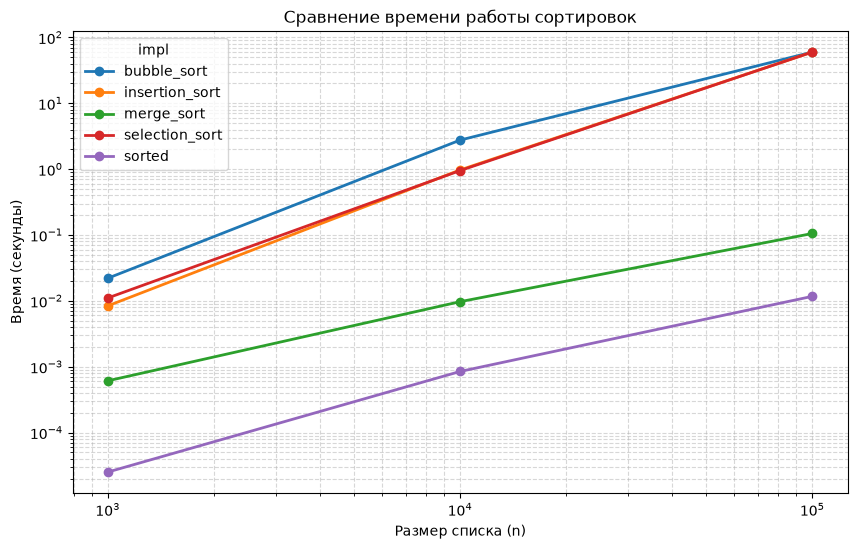
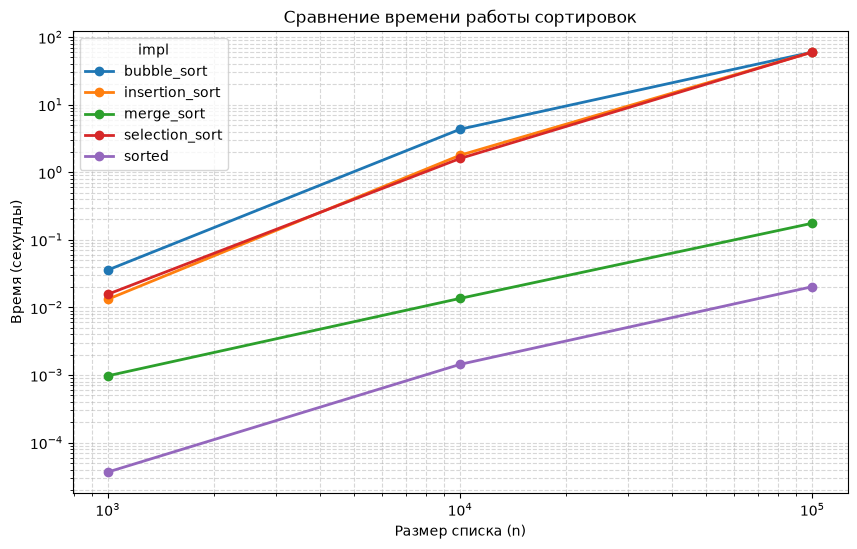
Сделал пикми

Changed region(s): [[0.0303, 0.0929, 1.0, 0.898], [0.0303, 0.5264, 0.091, 0.5883], [0.0303, 0.1858, 0.091, 0.2168]]

diff --git a/src/lab07/README.md b/src/lab07/README.md
@@ -1,0 +1,150 @@
+# Отчет по лабораторной работе №7
+
+## Алгоритмы поиска
+
+- `linear_search(nums, x)` — линейный поиск первого вхождения элемента;
+- `binary_search(sorted_nums, x)` — бинарный поиск в отсортированном списке;
+- `two_sum_brute(nums, target)` — поиск пары вложенными циклами;
+- `two_sum_fast(nums, target)` — поиск пары за один проход со словарём.
+
+Сложность:
+
+| Алгоритм            | Сложность |
+| --------------------------- | -----------------: |
+| Линейный поиск |           `O(n)` |
+| Бинарный поиск |       `O(log n)` |
+| `two_sum_brute`           |         `O(n²)` |
+| `two_sum_fast`            |           `O(n)` |
+
+Бинарный поиск работает только с предварительно отсортированным списком.
+
+## Алгоритмы сортировки
+
+- `bubble_sort(nums)` — сортировка пузырьком с ранним выходом;
+- `insertion_sort(nums)` — сортировка вставками;
+- `selection_sort(nums)` — сортировка выбором;
+- `merge_sort(nums)` — нерекурсивная сортировка слиянием;
+- `counting_sort(nums, lo, hi)` — сортировка подсчётом для заданного диапазона.
+
+| Алгоритм                            | Сложность |
+| ------------------------------------------- | -----------------: |
+| Пузырьковая сортировка |         `O(n²)` |
+| Сортировка вставками     |         `O(n²)` |
+| Сортировка выбором         |         `O(n²)` |
+| Сортировка слиянием       |     `O(n log n)` |
+| Сортировка подсчётом     |       `O(n + k)` |
+
+## Проверка корректности
+
+Запуск проверки из корня репозитория:
+
+```powershell
+python -m src.lab07.check
+```
+
+Проверены:
+
+- три квадратичные сортировки и две дополнительные сортировки — по 100 случайных
+  списков;
+- линейный и бинарный поиск — 100 случайных наборов;
+- оба решения задачи `Two Sum` — 100 случайных наборов;
+- отсутствие изменения входного списка.
+
+Результат проверки:
+
+```text
+bubble_sort OK: 100
+insertion_sort OK: 100
+selection_sort OK: 100
+merge_sort OK: 100
+counting_sort OK: 100
+OK: 100 проверок
+OK: 100 проверок
+ВСЕ ПРОВЕРКИ ПРОЙДЕНЫ!
+```
+
+## Бенчмарк
+
+Результаты выводятся в консоль и сохраняются в
+
+[data/lab07/bench.csv](../../data/lab07/bench.csv).
+
+### Сортировки
+
+| Размер `n` |  `sorted` | `merge_sort` | `bubble_sort` | `insertion_sort` | `selection_sort` |
+| -----------------: | ----------: | -------------: | --------------: | -----------------: | -----------------: |
+|              1 000 | 0.000037 с |    0.000973 с |     0.035787 с |        0.013219 с |        0.015668 с |
+|             10 000 | 0.001438 с |    0.013607 с |     4.329996 с |        1.786593 с |        1.599112 с |
+|            100 000 | 0.020287 с |    0.176124 с |         > 60 с |            > 60 с |            > 60 с |
+
+Квадратичные сортировки для `n = 100000` ограничены отметкой `> 60.0`,
+поскольку их выполнение занимает слишком много времени.
+
+### Сортировка подсчётом
+
+Для миллиона чисел из диапазона `[0, 100]` получены следующие результаты:
+
+| Размер `n` | Реализация |  Время |
+| -----------------: | -------------------- | ----------: |
+|          1 000 000 | `sorted`           | 0.124700 с |
+|          1 000 000 | `counting_sort`    | 0.063189 с |
+
+Сортировка подсчётом примерно в два раза быстрее `sorted` в этом случае,
+потому что размер диапазона значений значительно меньше количества элементов.
+
+### Поиск
+
+Замер выполнен для списка из 100 000 элементов и 10 000 запросов.
+
+| Реализация                   |   Время |
+| -------------------------------------- | -----------: |
+| Линейный поиск            | 25.951250 с |
+| Сортировка списка      |  0.022157 с |
+| 10 000 бинарных поисков |  0.025957 с |
+
+Бинарный поиск требует предварительной сортировки. При одном запросе
+линейный поиск выгоднее, но при большом числе запросов стоимость сортировки
+быстро окупается: после неё каждый запрос выполняется за `O(log n)`.
+
+### Two Sum
+
+| Размер `n` | `two_sum_brute` | `two_sum_fast` |
+| -----------------: | ----------------: | ---------------: |
+|              1 000 |       0.016020 с |      0.000071 с |
+|             10 000 |       0.021130 с |      0.000276 с |
+
+Решение со словарём заметно быстрее перебора пар и масштабируется линейно.
+
+## График результатов
+
+Для построения графика используется [plot.py](plot.py):
+
+```powershell
+python -m src.lab07.plot
+```
+
+График сохраняется в `images/lab07/sorting_graph.png`. Обе оси графика имеют логарифмический масштаб.
+
+## Вывод
+
+При увеличении размера списка с 1 000 до 10 000 элементов пузырьковая сортировка замедлилась примерно в 121 раз: это соответствует квадратичной сложности `O(n²)`. 
+
+Для `sorted` рост составил около 39 раз в данном запуске, 
+
+а для `merge_sort` — около 14 раз; 
+
+на практике результат зависит от реализации, процессора и конкретных данных, но асимптотика `O(n log n)` растёт значительно медленнее квадратичной.
+
+Бинарный поиск сам по себе очень быстрый, но применим только к отсортированному списку. Поэтому для небольшого числа запросов стоимость сортировки может быть неоправданной, а при тысячах запросов она окупается. 
+
+Проверка `check.py` подтвердила корректность всех пяти сортировок, двух алгоритмов поиска и двух решений `Two Sum`: расхождений на 100 случайных тестах для каждого набора не
+обнаружено.
+
+## Зависимости
+
+Основные алгоритмы используют только стандартную библиотеку Python. Для
+построения графика нужны `pandas` и `matplotlib`. Установка всех зависимостей:
+
+```powershell
+python -m pip install -r requirements.txt
+```
